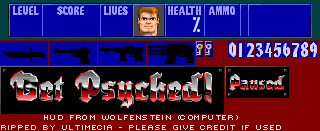
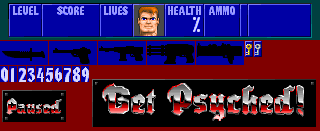
Agregue al hud la imagen del lanzacohetes

diff --git a/ClientePrueba/src/client_src/Hud.cpp b/ClientePrueba/src/client_src/Hud.cpp
@@ -7,7 +7,7 @@
 Hud::Hud():
 textureHandler(0, 0, HUDL, HUDA,INSTALLED_TEXTURE_HUD), 
 gun(0, 41, HGUNL, HGUNA,INSTALLED_TEXTURE_HUD),
-numbers(228, 41, HNUML, HNUMA,INSTALLED_TEXTURE_HUD){}
+numbers(0, 66, HNUML, HNUMA,INSTALLED_TEXTURE_HUD){}
 
 void Hud::setRenderer(SDL_Renderer* renderer){
     textureHandler.setRenderer(renderer);
@@ -23,7 +23,7 @@ void Hud::renderNumber(int number, int x, int y){
     while (true){
         int numero = number % 10;
 
-        numbers.src.x = initNum + offsetNum * numero;
+        numbers.src.x = offsetNum * numero;
         numbers.render(x, y, HNUML, HNUMA);
 
         number = number / 10;

diff --git a/ClientePrueba/src/client_src/Hud.h b/ClientePrueba/src/client_src/Hud.h
@@ -22,7 +22,6 @@
 class Hud{
 private:
     int offsetGun = 49;
-    int initNum = 228;
     int offsetNum = 9;
     SDL_Rect srcKey = {196, 41, HKEYL, HKEYA};
     SDLHandler textureHandler;
